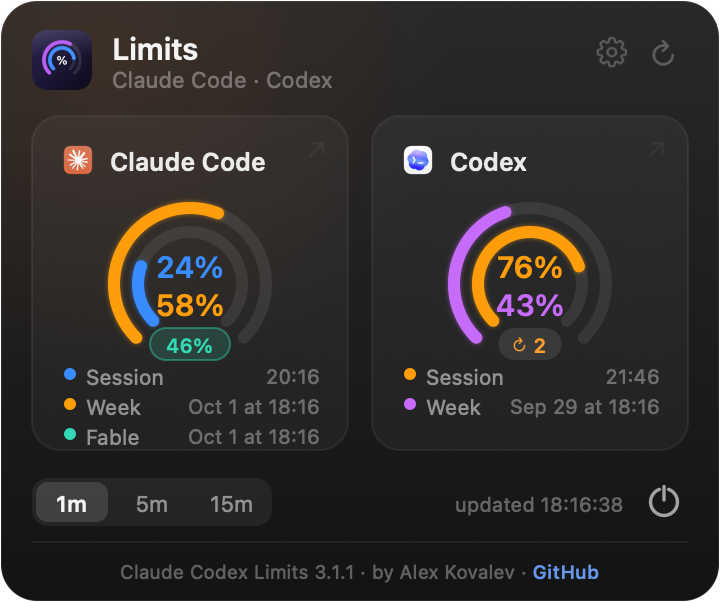
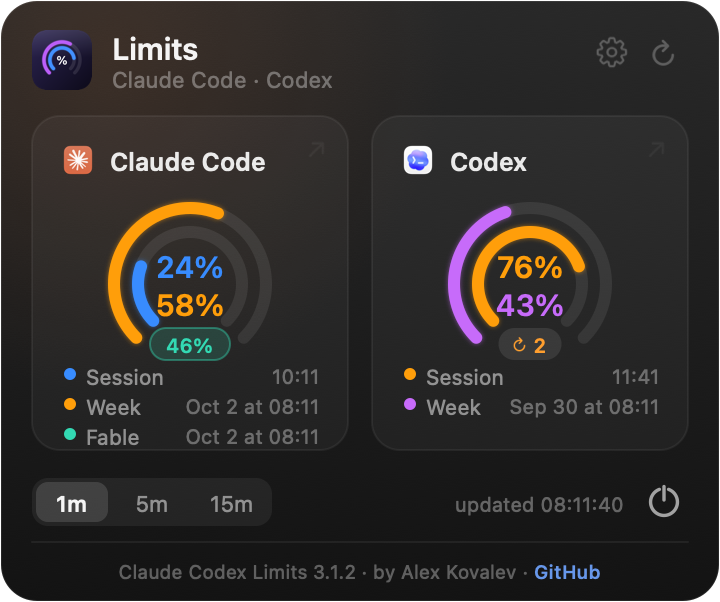
v3.1.2 — re-discover the earliest sync gist; show that the sign-in code was copied
Closes #3. The protocol's "earliest created_at wins" was applied only on the
first discovery, so two machines that each created a gist would never see
each other. GitHubSync.syncBody now re-runs findGist right after creating a
gist and once a day (syncDiscoveredAt), switching to the earliest one and
forgetting the push hash so this machine's file is written there. logout()
and a revoked sign-in clear syncDiscoveredAt. Schema stays 1.

The sign-in's Copy button reads «Скопировано» in teal for a moment after
Copy or Open (both put the code on the clipboard); width doesn't change.

diff --git a/Sources/LimitsMonitor.swift b/Sources/LimitsMonitor.swift
@@ -1283,7 +1283,7 @@ final class GitHubSync {
         q.async {
             syncTokenDelete()
             let d = UserDefaults.standard
-            for k in ["syncLogin", "syncGistId", "syncPushHash", "syncPushedAt", "syncRevoked"] { d.removeObject(forKey: k) }
+            for k in ["syncLogin", "syncGistId", "syncPushHash", "syncPushedAt", "syncRevoked", "syncDiscoveredAt"] { d.removeObject(forKey: k) }
             self.lock.lock(); self._remote = SyncRemoteCache(); self.lock.unlock()
             try? FileManager.default.removeItem(atPath: SYNC_REMOTE_PATH)
             self.setUI { $0 = SyncUIState() }
@@ -1294,6 +1294,7 @@ final class GitHubSync {
         syncTokenDelete()
         let d = UserDefaults.standard
         d.set(true, forKey: "syncRevoked"); d.removeObject(forKey: "syncGistId"); d.removeObject(forKey: "syncPushHash")
+        d.removeObject(forKey: "syncDiscoveredAt")
         setUI { $0.phase = .revoked }
     }
 
@@ -1362,6 +1363,23 @@ final class GitHubSync {
         }
 
         var gistId = d.string(forKey: "syncGistId")
+        // Earliest-created wins must keep being applied, not only on first discovery: two
+        // machines that each created a gist would otherwise never see each other's files
+        // (issue #3). Re-check once a day; on a switch, forget the push hash so our file is
+        // written into the gist we moved to.
+        if let cur = gistId {
+            let last = d.object(forKey: "syncDiscoveredAt") as? Date ?? .distantPast
+            if Date().timeIntervalSince(last) > 86400 {
+                let f = findGist(token)
+                if handle(f.status) { return }
+                d.set(Date(), forKey: "syncDiscoveredAt")
+                if let id = f.id, id != cur {
+                    gistId = id
+                    d.set(id, forKey: "syncGistId")
+                    d.removeObject(forKey: "syncPushHash")
+                }
+            }
+        }
         if gistId == nil {
             let f = findGist(token)
             if handle(f.status) { return }
@@ -1375,7 +1393,14 @@ final class GitHubSync {
                 guard let id = (c.json as? [String: Any])?["id"] as? String else { return }
                 gistId = id
                 d.set(snap.hash, forKey: "syncPushHash"); d.set(Date(), forKey: "syncPushedAt")
+                // Did another machine create one at the same moment? Converge on the earliest.
+                let again = findGist(token)
+                if again.status == 200, let a = again.id, a != id {
+                    gistId = a
+                    d.removeObject(forKey: "syncPushHash")
+                }
             }
+            d.set(Date(), forKey: "syncDiscoveredAt")
             d.set(gistId, forKey: "syncGistId")
         }
         guard let gid = gistId else { return }
@@ -1910,7 +1935,7 @@ func panelMainHeight(_ claude: LimitData, _ codex: LimitData) -> CGFloat {
     PANEL_H + scopedRowExtra(claude, codex)
 }
 enum PanelMode { case main, settings, sounds, whatsnew, claudeFix }
-let APP_VERSION = "3.1.1"
+let APP_VERSION = "3.1.2"
 let APP_AUTHOR = "Alex Kovalev"
 let REPO_URL = "https://github.com/ArrivaRUS/claude-codex-limits"
 let CLAUDE_INSTALL_CMD = "curl -fsSL https://claude.ai/install.sh | bash"
@@ -2911,7 +2936,7 @@ func drawAdvanced(_ ctx: CGContext, size: CGSize, claude: LimitData, codex: Limi
     return hits
 }
 
-func drawSettings(_ ctx: CGContext, size: CGSize, about: AboutState, soundsPage: Bool = false) -> [Hit] {
+func drawSettings(_ ctx: CGContext, size: CGSize, about: AboutState, soundsPage: Bool = false, copied: String? = nil) -> [Hit] {
     let W = size.width, H = size.height
     var hits: [Hit] = []
     let cs = CGColorSpaceCreateDeviceRGB()
@@ -3165,8 +3190,8 @@ func drawSettings(_ ctx: CGContext, size: CGSize, about: AboutState, soundsPage:
         text(attr(tr("ДРУГИЕ КОМПЬЮТЕРЫ · ЧЕРЕЗ GITHUB", "OTHER COMPUTERS · VIA GITHUB"), 9.5, .semibold, textLo), x: pad + 2, topY: SET_SYNC_CAP)
         roundFill(rectTL(cardX, syTop, cardW, syH), 12, gray(1, 0.04))
         roundStroke(rectTL(cardX, syTop, cardW, syH), 12, gray(1, 0.06), 1)
-        func button(_ label: String, right: CGFloat, rowTop: CGFloat, id: String, primary: Bool) -> CGFloat {
-            let a = attr(label, 11, .semibold, primary ? NSColor(srgbRed: 0.1, green: 0.07, blue: 0.03, alpha: 1) : textHi)
+        func button(_ label: String, right: CGFloat, rowTop: CGFloat, id: String, primary: Bool, tint: NSColor? = nil) -> CGFloat {
+            let a = attr(label, 11, .semibold, tint ?? (primary ? NSColor(srgbRed: 0.1, green: 0.07, blue: 0.03, alpha: 1) : textHi))
             let w = ceil(lineWidth(CTLineCreateWithAttributedString(a))) + 20, h: CGFloat = 22
             let r = rectTL(right - w, rowTop + (SET_ROW_H - h) / 2, w, h)
             roundFill(r, 6, primary ? orange : gray(1, 0.12))
@@ -3210,7 +3235,11 @@ func drawSettings(_ ctx: CGContext, size: CGSize, about: AboutState, soundsPage:
             text(ctAttr(sy.userCode ?? "····-····", (NSFont.monospacedSystemFont(ofSize: 22, weight: .semibold) as CTFont), cg(textHi)), x: cardX + 14, topY: codeTop + 8)
             var right = cardX + cardW - 12
             right -= button(tr("Открыть", "Open"), right: right, rowTop: codeTop + 4, id: "sync:open", primary: true) + 6
-            _ = button(tr("Скопировать", "Copy"), right: right, rowTop: codeTop + 4, id: "sync:copy", primary: false)
+            // Copy flips to a teal «Скопировано» for a moment (copyToClipboard clears it) — both buttons
+            // put the code on the clipboard, so either one lights it up.
+            let justCopied = copied != nil && copied == sy.userCode
+            _ = button(justCopied ? tr("Скопировано", "Copied!") : tr("Скопировать", "Copy"), right: right, rowTop: codeTop + 4, id: "sync:copy", primary: false,
+                       tint: justCopied ? ADV_MODEL[0] : nil)
             hdiv(cardX + 14, cardX + cardW - 14, codeTop + 44)
             text(attr(tr("Ждём подтверждения в браузере…", "Waiting for approval in the browser…"), 10.5, .regular, textMid), x: cardX + 14, topY: codeTop + 51)
             link(tr("Отмена", "Cancel"), right: cardX + cardW - 14, topY: codeTop + 51, id: "sync:cancel")
@@ -3675,7 +3704,7 @@ final class LimitsPanelView: NSView {
     override func draw(_ dirtyRect: NSRect) {
         guard let ctx = NSGraphicsContext.current?.cgContext else { return }
         if mode == .settings || mode == .sounds {
-            hits = drawSettings(ctx, size: bounds.size, about: about, soundsPage: mode == .sounds)
+            hits = drawSettings(ctx, size: bounds.size, about: about, soundsPage: mode == .sounds, copied: copiedCmd)
         } else if mode == .whatsnew {
             hits = drawWhatsNew(ctx, size: bounds.size, notes: notes, loading: notesLoading,
                                 error: notesError, scroll: scroll, contentH: notesContentH,
@@ -4679,6 +4708,14 @@ if CommandLine.arguments.contains("--advanced-preview") {
         dd.set(lang, forKey: "lang")
         SYNC_PREVIEW = SyncUIState(); renderSettings("\(out)/sync-\(lang)-off.png")
         SYNC_PREVIEW = SyncUIState(phase: .awaitingCode, userCode: "WDJB-MJHT"); renderSettings("\(out)/sync-\(lang)-code.png")
+        do {
+            let sh = settingsTotalHeight(AboutState())
+            if let ctx = bitmapContext(Int(PANEL_W * s), Int(sh * s)) {
+                ctx.scaleBy(x: s, y: s)
+                _ = drawSettings(ctx, size: CGSize(width: PANEL_W, height: sh), about: AboutState(), copied: "WDJB-MJHT")
+                save(ctx, "\(out)/sync-\(lang)-code-copied.png")
+            }
+        }
         SYNC_PREVIEW = SyncUIState(phase: .on, login: "ArrivaRUS", machines: [mac, astra], lastSync: Date()); renderSettings("\(out)/sync-\(lang)-on.png")
         render(c, x, "\(out)/sync-\(lang)-panel.png")
         SYNC_PREVIEW = SyncUIState(phase: .revoked, login: "ArrivaRUS"); renderSettings("\(out)/sync-\(lang)-revoked.png")

diff --git a/README.md b/README.md
@@ -3,7 +3,7 @@
 **English** · [Русский](README.ru.md)
 
 <p align="center">
-  <img src="docs/banner.png?v=311" alt="Claude Codex Limits — macOS menu bar usage limits" width="820">
+  <img src="docs/banner.png?v=312" alt="Claude Codex Limits — macOS menu bar usage limits" width="820">
 </p>
 
 A tiny macOS menu-bar app that shows how much of your **Claude Code** and **Codex**
@@ -14,9 +14,9 @@ window), with the product's icon to its left — and you decide which two number
 Click the tray icon for a detailed popover.
 
 <p align="center">
-  <img src="docs/menubar-dark.png?v=311" width="180" alt="Menu bar (dark)">
+  <img src="docs/menubar-dark.png?v=312" width="180" alt="Menu bar (dark)">
   &nbsp;&nbsp;
-  <img src="docs/panel-en.png?v=311" width="320" alt="Popover">
+  <img src="docs/panel-en.png?v=312" width="320" alt="Popover">
 </p>
 
 ## Features
@@ -42,19 +42,19 @@ Click the tray icon for a detailed popover.
 - **Launch at login** — a toggle right in Settings; no Dock icon, no dependencies beyond what macOS already ships.
 
 <p align="center">
-  <img src="docs/menubar-single.png?v=311" width="140" alt="Single product (menu bar)">
+  <img src="docs/menubar-single.png?v=312" width="140" alt="Single product (menu bar)">
   &nbsp;&nbsp;
-  <img src="docs/panel-single-en.png?v=311" width="300" alt="Single product (popover)">
+  <img src="docs/panel-single-en.png?v=312" width="300" alt="Single product (popover)">
 </p>
 <p align="center"><sub>With only one subscription set up, the tray and popover collapse to a single row / card.</sub></p>
 
-<p align="center"><img src="docs/advanced-en.png?v=311" width="320" alt="Advanced view"></p>
+<p align="center"><img src="docs/advanced-en.png?v=312" width="320" alt="Advanced view"></p>
 <p align="center"><sub>Advanced view: a pace line and a plain verdict per window, 7 days stacked by model, a 35‑day calendar, and what a day costs on the subscription vs at API prices.</sub></p>
 
-<p align="center"><img src="docs/settings-en.png?v=311" width="250" alt="Settings screen"></p>
+<p align="center"><img src="docs/settings-en.png?v=312" width="250" alt="Settings screen"></p>
 <p align="center"><sub>Settings (⚙): interface language · panel view · launch at login · which two numbers the menu bar shows · subscriptions and GitHub sync (Advanced) · sounds on their own screen · built‑in updates.</sub></p>
 
-<p align="center"><img src="docs/whatsnew-en.png?v=311" width="320" alt="What's new screen"></p>
+<p align="center"><img src="docs/whatsnew-en.png?v=312" width="320" alt="What's new screen"></p>
 <p align="center"><sub>“What’s new”: release notes for every version you skipped, then update straight from there.</sub></p>
 
 ## How it works
@@ -105,7 +105,7 @@ you turn it on in Settings.
 
 ### 2. From the .dmg
 
-1. Download `ClaudeCodexLimits-3.1.1.dmg` from the [Releases](../../releases) page.
+1. Download `ClaudeCodexLimits-3.1.2.dmg` from the [Releases](../../releases) page.
 2. Open it and drag **Claude Codex Limits** into **Applications**.
 3. Launch it. The build isn't notarized, so on **macOS Sequoia / Tahoe** the first
    launch is blocked. Do this once:
@@ -141,7 +141,7 @@ Requirements: macOS 13+, the Xcode command‑line tools (`swiftc`). No packages 
 ## Build a release
 
 ```bash
-./scripts/make-dmg.sh     # → dist/ClaudeCodexLimits-3.1.1.dmg
+./scripts/make-dmg.sh     # → dist/ClaudeCodexLimits-3.1.2.dmg
 ```
 
 ## Project layout
